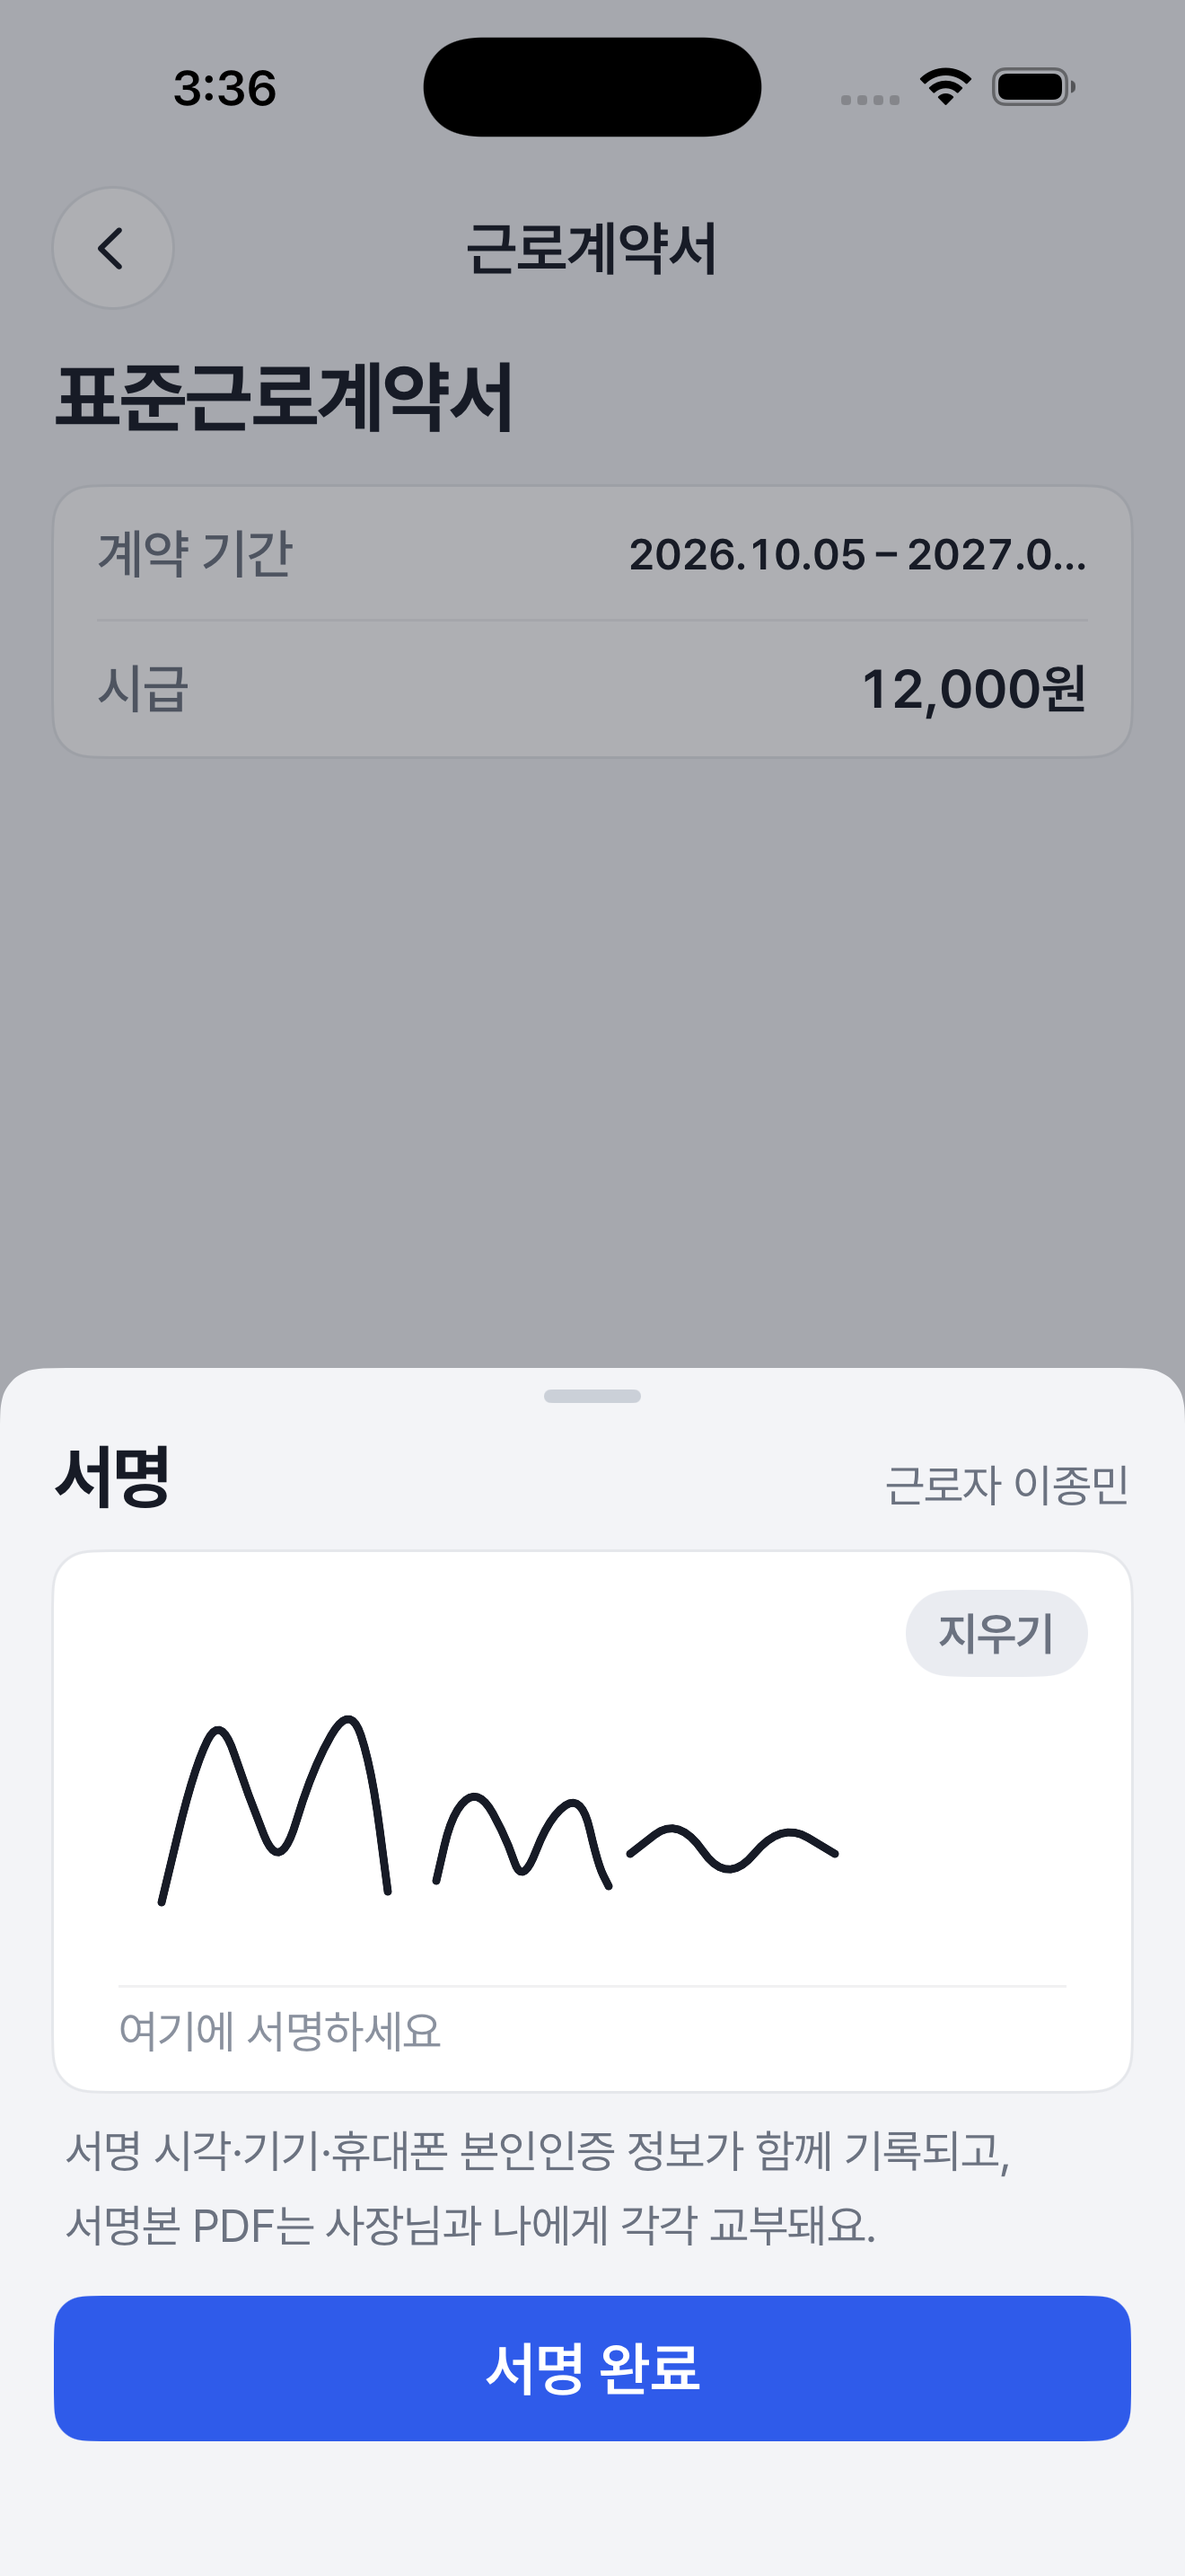
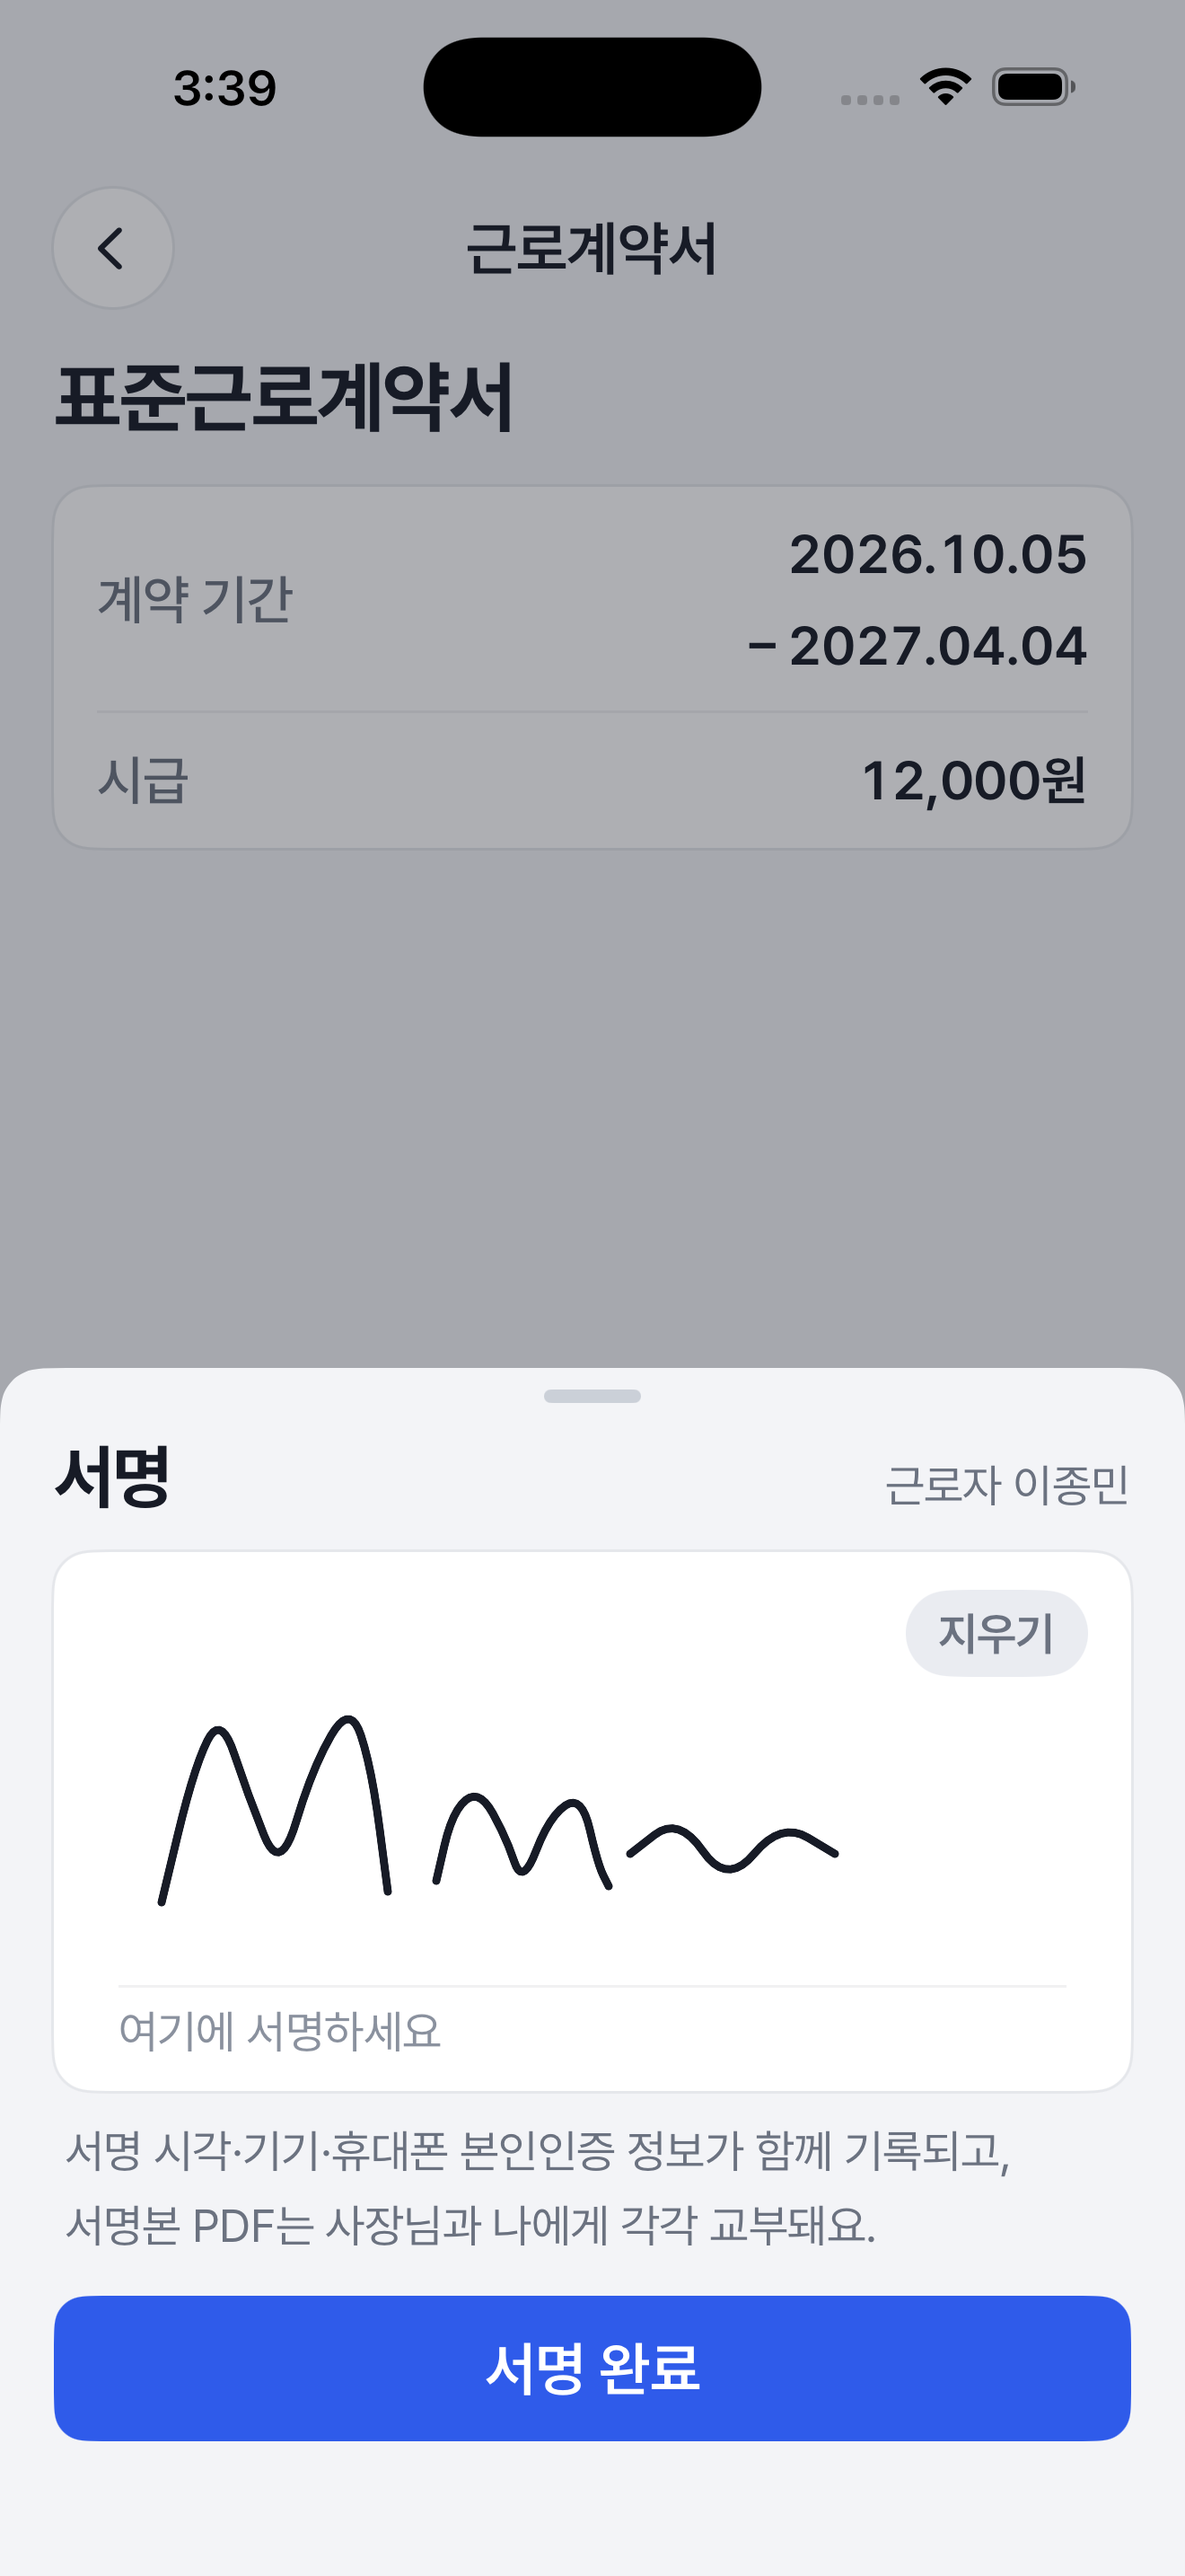
fix(contract): 서명 패드(1aa) QA 반영 · 비교표
- 실제 진입은 빈 서명(예시 획은 비교 캡처 · 프리뷰만) — 가짜 서명으로 완료되는 문제(QA 중간)
- 뒤 화면 계약 기간: 큰 글자에서 잘리지 않고 줄바꿈
- 테스트: 최소 길이 경계, 지운 뒤 다시 쓰기, 그리는 중은 서명 아님
- 비교표 1aa 추가

Refs #56

diff --git a/Pum/Pum/Features/Contract/SignaturePad/SignaturePadView.swift b/Pum/Pum/Features/Contract/SignaturePad/SignaturePadView.swift
@@ -10,7 +10,8 @@ struct SignaturePadView: View {
     @State private var sheetOpen: Bool
     @State private var drawing: SignatureDrawing
 
-    init(drawing: SignatureDrawing = .sample, sheetOpen: Bool = true,
+    /// 실제 진입은 빈 서명 — 예시 획(`.sample`)은 비교 캡처 · 프리뷰에서만
+    init(drawing: SignatureDrawing = SignatureDrawing(), sheetOpen: Bool = true,
          onBack: @escaping () -> Void = {},
          onComplete: @escaping ([SignatureStroke]) -> Void = { _ in },
          onDismissSheet: @escaping () -> Void = {}) {
@@ -73,11 +74,16 @@ struct SignaturePadView: View {
     }
 
     private func rowValue(_ s: String) -> some View {
-        Text(s).pumText(.body, weight: .semibold).foregroundStyle(PumColor.textPrimary)
-            .lineLimit(1).minimumScaleFactor(0.8) // 기간은 한 줄(원문)
+        // 기간은 한 줄(원문), 큰 글자에서 넘치면 줄바꿈(잘리지 않게)
+        ViewThatFits(in: .horizontal) {
+            Text(s).lineLimit(1).fixedSize()
+            Text(s)
+        }
+        .pumText(.body, weight: .semibold).foregroundStyle(PumColor.textPrimary)
+        .multilineTextAlignment(.trailing)
     }
 }
 
-#Preview("1aa") { SignaturePadView() }
+#Preview("1aa") { SignaturePadView(drawing: .sample) }
 #Preview("1aa · 빈 상태") { SignaturePadView(drawing: SignatureDrawing()) }
 #Preview("1aa · 큰 글자") { SignaturePadView().dynamicTypeSize(.xxxLarge) }

diff --git a/Pum/Pum/ContentView.swift b/Pum/Pum/ContentView.swift
@@ -32,7 +32,7 @@ struct ContentView: View {
             case "1o": InviteAcceptView()
             case "1j": MyScheduleView()
             case "1z": ContractReviewView(startsAgreed: true) // 원문 캡처는 체크한 뒤 모습
-            case "1aa": SignaturePadView()
+            case "1aa": SignaturePadView(drawing: .sample) // 원문 캡처는 예시 서명이 그려진 모습
             case "gallery": ComponentGalleryView()
             default: DevMenu()
             }
@@ -62,7 +62,7 @@ private struct DevMenu: View {
                     NavigationLink("1o 초대 수락") { InviteAcceptView().toolbar(.hidden, for: .navigationBar) }
                     NavigationLink("1j 내 스케줄 · 대타 요청") { MyScheduleView().toolbar(.hidden, for: .navigationBar) }
                     NavigationLink("1z 근로계약서 확인") { ContractReviewView(startsAgreed: true).toolbar(.hidden, for: .navigationBar) }
-                    NavigationLink("1aa 서명 패드") { SignaturePadView().toolbar(.hidden, for: .navigationBar) }
+                    NavigationLink("1aa 서명 패드") { SignaturePadView(drawing: .sample).toolbar(.hidden, for: .navigationBar) }
                 }
                 Section("디자인 시스템") {
                     NavigationLink("컴포넌트 갤러리") { ComponentGalleryView() }

diff --git a/Pum/PumTests/Features/Contract/SignaturePadTests.swift b/Pum/PumTests/Features/Contract/SignaturePadTests.swift
@@ -51,4 +51,27 @@ struct SignaturePadTests {
         #expect(C.placeholder == "여기에 서명하세요")
         #expect([C.clear, C.complete, C.padLabel, C.padHint, C.padSigned] == ["지우기", "서명 완료", "서명 칸", "손가락으로 서명해요", "서명됨"])
     }
+
+    @Test func 최소_길이_경계() {
+        var d = SignatureDrawing()
+        d.move(to: .zero); d.move(to: CGPoint(x: SignatureStroke.minLength, y: 0)); d.end()
+        #expect(d.hasSignature) // 정확히 기준 = 서명
+        var e = SignatureDrawing()
+        e.move(to: .zero); e.move(to: CGPoint(x: SignatureStroke.minLength - 1, y: 0)); e.end()
+        #expect(!e.hasSignature)
+    }
+
+    @Test func 지운_뒤_다시_쓰기() {
+        var d = SignatureDrawing.sample
+        d.clear()
+        #expect(!d.hasSignature)
+        d.move(to: .zero); d.move(to: CGPoint(x: 40, y: 10)); d.end()
+        #expect(d.hasSignature && d.validStrokes.count == 1)
+    }
+
+    @Test func 그리는_중에는_아직_서명_아님() {
+        var d = SignatureDrawing()
+        d.move(to: .zero); d.move(to: CGPoint(x: 40, y: 10))
+        #expect(!d.hasSignature)
+    }
 }

diff --git a/docs/design/compare/screens/README.md b/docs/design/compare/screens/README.md
@@ -192,3 +192,17 @@
 | 값이 빈 계약 조건 | 디자인 없음 | 숨기지 않음 — 서버 값 그대로(QA 중간) | 구현 기준 |
 | 문서 종류 16px · 제목 | — | body 15 · title2 24 | DEC-005 |
 | 공통 후보 | 체크박스 | 화면 전용 | 공통 이슈로 묶을 것 |
+
+## UI-IOS-1aa 서명 패드 (#56 · 배치 8)
+
+| 항목 | 디자인 | 구현 | 결과 |
+|---|---|---|---|
+| 배치 · 문구 | 뒤 화면(근로계약서 · 표준근로계약서 · 계약 기간 · 시급) / 시트(서명 · 근로자 이름 / 서명 칸 · 지우기 · 기준선 · 안내 / 기록 안내 / 서명 완료) | 같음(공통 C9 바텀시트) | 일치 |
+| 서명 선 | 매끄러운 손글씨 곡선 | 1차 구현 꺾인 직선 → **중점 2차 곡선** | 수정 후 일치 |
+| 「여기에 서명하세요」 | 기준선 아래 왼쪽 | 1차 구현 가운데 → **왼쪽** | 수정 후 일치 |
+| 「지우기」 칩 | 칸 안쪽 약 14–16 | 1차 구현 모서리에 붙음 → **수정** | 수정 후 일치 |
+| 뒤 화면 값 | 15px 600 · 한 줄 | 1차 구현 보통 굵기 → **semibold**, 큰 글자면 줄바꿈 | 수정 후 일치 |
+| 시작 상태 | 캡처는 예시 서명이 그려진 모습 | 실제 진입은 빈 서명(QA 중간), 비교 캡처만 예시 획 | 구현 기준 |
+| 서명 완료 비활성 | 디자인 없음 | 획 없으면 회색 비활성, 이유 문구 없음 | 충돌 #30 |
+| 짧은 획 기준 | 디자인 없음 | 길이 4pt 미만은 서명으로 치지 않음(임의 값) | 구현 기준 — 확인 필요 |
+| 서명 대체 수단 | 디자인 없음 | 없음(VoiceOver는 직접 접촉으로 그리기) | **접근성 — 디자인 필요** |
